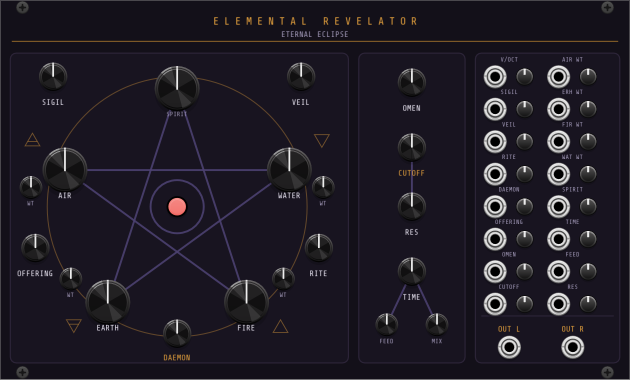
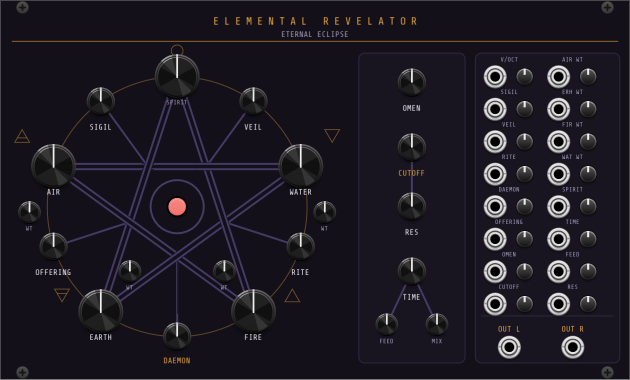
Elemental Revelator: ring layout and woven pentagram panel (OMN-77)
All ten knobs on one r=44 ring, evenly spaced: elements at the star
points, SIGIL/VEIL/OFFERING/RITE/DAEMON between them, each wired by a
line into its inner pentagram corner. Pentagram redrawn as a woven
double-line star with over/under crossings; spirit circle glyph at the
top; left background frame removed for a free-floating centerpiece.
Bump to v2.6.1.

diff --git a/src/ElementalRevelator/ElementalRevelator.cpp b/src/ElementalRevelator/ElementalRevelator.cpp
@@ -452,14 +452,16 @@ constexpr float ElementalRevelator::MORPH_COEF[4];
 constexpr float ElementalRevelator::PAN_COEF[4];
 
 struct ElementalRevelatorWidget : ModuleWidget {
-	// Pentagram zone: five points on a circle, Golden-Dawn attribution
-	// (SPIRIT top, AIR upper-left, WATER upper-right, EARTH lower-left,
-	// FIRE lower-right). Centers in mm.
-	static constexpr float SPIRIT_X = 60.f, SPIRIT_Y = 30.f;
-	static constexpr float AIR_X = 22.f, AIR_Y = 57.6f;
-	static constexpr float WATER_X = 98.f, WATER_Y = 57.6f;
-	static constexpr float EARTH_X = 36.5f, EARTH_Y = 102.4f;
-	static constexpr float FIRE_X = 83.5f, FIRE_Y = 102.4f;
+	// Pentagram zone: all ten knobs sit on one ring (r=44 around 60,70),
+	// evenly spaced 36 degrees apart. Golden-Dawn attribution for the
+	// five points (SPIRIT top, AIR upper-left, WATER upper-right, EARTH
+	// lower-left, FIRE lower-right); the five modifiers take the
+	// midpoint angles, each wired to its inner pentagram corner.
+	static constexpr float SPIRIT_X = 60.f, SPIRIT_Y = 26.f;
+	static constexpr float AIR_X = 18.15f, AIR_Y = 56.4f;
+	static constexpr float WATER_X = 101.85f, WATER_Y = 56.4f;
+	static constexpr float EARTH_X = 34.14f, EARTH_Y = 105.6f;
+	static constexpr float FIRE_X = 85.86f, FIRE_Y = 105.6f;
 	static constexpr float CENTER_X = 60.f, CENTER_Y = 70.f;
 	// Filter/FX column center
 	static constexpr float FX_X = 139.5f;
@@ -507,28 +509,28 @@ struct ElementalRevelatorWidget : ModuleWidget {
 			ElementalRevelator::SPIRIT_MODE_PARAM, ElementalRevelator::SPIRIT_LIGHT));
 
 		// Per-element wavetable knobs
-		addParam(createParamCentered<RoundSmallBlackKnob>(mm2px(Vec(10.5f, 63.5f)), module, ElementalRevelator::AIR_WT_PARAM));
-		addLabel(Vec(10.5f, 69.f), "WT", eclipse::FINE_SIZE, eclipse::DIM_COLOR);
-		addParam(createParamCentered<RoundSmallBlackKnob>(mm2px(Vec(109.5f, 63.5f)), module, ElementalRevelator::WATER_WT_PARAM));
-		addLabel(Vec(109.5f, 69.f), "WT", eclipse::FINE_SIZE, eclipse::DIM_COLOR);
-		addParam(createParamCentered<RoundSmallBlackKnob>(mm2px(Vec(24.f, 94.5f)), module, ElementalRevelator::EARTH_WT_PARAM));
-		addLabel(Vec(24.f, 100.f), "WT", eclipse::FINE_SIZE, eclipse::DIM_COLOR);
-		addParam(createParamCentered<RoundSmallBlackKnob>(mm2px(Vec(96.f, 94.5f)), module, ElementalRevelator::FIRE_WT_PARAM));
-		addLabel(Vec(96.f, 100.f), "WT", eclipse::FINE_SIZE, eclipse::DIM_COLOR);
+		addParam(createParamCentered<RoundSmallBlackKnob>(mm2px(Vec(10.f, 72.f)), module, ElementalRevelator::AIR_WT_PARAM));
+		addLabel(Vec(10.f, 77.5f), "WT", eclipse::FINE_SIZE, eclipse::DIM_COLOR);
+		addParam(createParamCentered<RoundSmallBlackKnob>(mm2px(Vec(110.f, 72.f)), module, ElementalRevelator::WATER_WT_PARAM));
+		addLabel(Vec(110.f, 77.5f), "WT", eclipse::FINE_SIZE, eclipse::DIM_COLOR);
+		addParam(createParamCentered<RoundSmallBlackKnob>(mm2px(Vec(44.f, 92.f)), module, ElementalRevelator::EARTH_WT_PARAM));
+		addLabel(Vec(44.f, 97.5f), "WT", eclipse::FINE_SIZE, eclipse::DIM_COLOR);
+		addParam(createParamCentered<RoundSmallBlackKnob>(mm2px(Vec(76.f, 92.f)), module, ElementalRevelator::FIRE_WT_PARAM));
+		addLabel(Vec(76.f, 97.5f), "WT", eclipse::FINE_SIZE, eclipse::DIM_COLOR);
 
-		// Modulation knobs at the corners and sides
-		addParam(createParamCentered<RoundBlackKnob>(mm2px(Vec(18.f, 26.f)), module, ElementalRevelator::SIGIL_PARAM));
-		addLabel(Vec(18.f, 34.8f), "SIGIL");
-		addParam(createParamCentered<RoundBlackKnob>(mm2px(Vec(102.f, 26.f)), module, ElementalRevelator::VEIL_PARAM));
-		addLabel(Vec(102.f, 34.8f), "VEIL");
-		addParam(createParamCentered<RoundBlackKnob>(mm2px(Vec(12.f, 84.f)), module, ElementalRevelator::OFFERING_PARAM));
-		addLabel(Vec(12.f, 92.8f), "OFFERING");
-		addParam(createParamCentered<RoundBlackKnob>(mm2px(Vec(108.f, 84.f)), module, ElementalRevelator::RITE_PARAM));
-		addLabel(Vec(108.f, 92.8f), "RITE");
+		// Modifier knobs on the ring at the midpoint angles
+		addParam(createParamCentered<RoundBlackKnob>(mm2px(Vec(34.14f, 34.4f)), module, ElementalRevelator::SIGIL_PARAM));
+		addLabel(Vec(34.14f, 43.2f), "SIGIL");
+		addParam(createParamCentered<RoundBlackKnob>(mm2px(Vec(85.86f, 34.4f)), module, ElementalRevelator::VEIL_PARAM));
+		addLabel(Vec(85.86f, 43.2f), "VEIL");
+		addParam(createParamCentered<RoundBlackKnob>(mm2px(Vec(18.15f, 83.6f)), module, ElementalRevelator::OFFERING_PARAM));
+		addLabel(Vec(18.15f, 92.4f), "OFFERING");
+		addParam(createParamCentered<RoundBlackKnob>(mm2px(Vec(101.85f, 83.6f)), module, ElementalRevelator::RITE_PARAM));
+		addLabel(Vec(101.85f, 92.4f), "RITE");
 
-		// Daemon knob at the bottom center
-		addParam(createParamCentered<RoundBlackKnob>(mm2px(Vec(60.f, 113.f)), module, ElementalRevelator::DAEMON_PARAM));
-		addLabel(Vec(60.f, 121.3f), "DAEMON", eclipse::LABEL_SIZE, eclipse::ACCENT_COLOR);
+		// Daemon knob at the ring's bottom
+		addParam(createParamCentered<RoundBlackKnob>(mm2px(Vec(60.f, 114.f)), module, ElementalRevelator::DAEMON_PARAM));
+		addLabel(Vec(60.f, 122.3f), "DAEMON", eclipse::LABEL_SIZE, eclipse::ACCENT_COLOR);
 
 		// ===== Zone 2: filter/FX column =====
 		addParam(createParamCentered<RoundBlackKnob>(mm2px(Vec(FX_X, 28.f)), module, ElementalRevelator::OMEN_PARAM));

diff --git a/CHANGELOG.md b/CHANGELOG.md
@@ -1,5 +1,12 @@
 # Changelog
 
+## 2.6.1 (2026-07-09)
+
+- Elemental Revelator: panel rework — all ten knobs on one ring around
+  the pentagram (elements at the points, modifiers between them), the
+  pentagram redrawn as a woven double-line star, modifier lines into
+  the inner corners, spirit circle glyph, background frame removed.
+
 ## 2.6.0 (2026-07-09)
 
 - New module: Elemental Revelator — four-element wavetable synth voice.